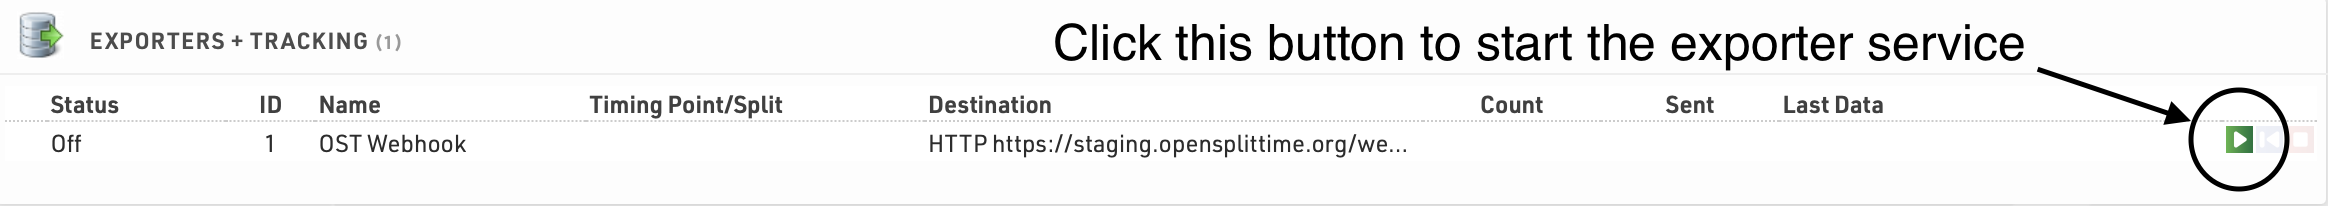
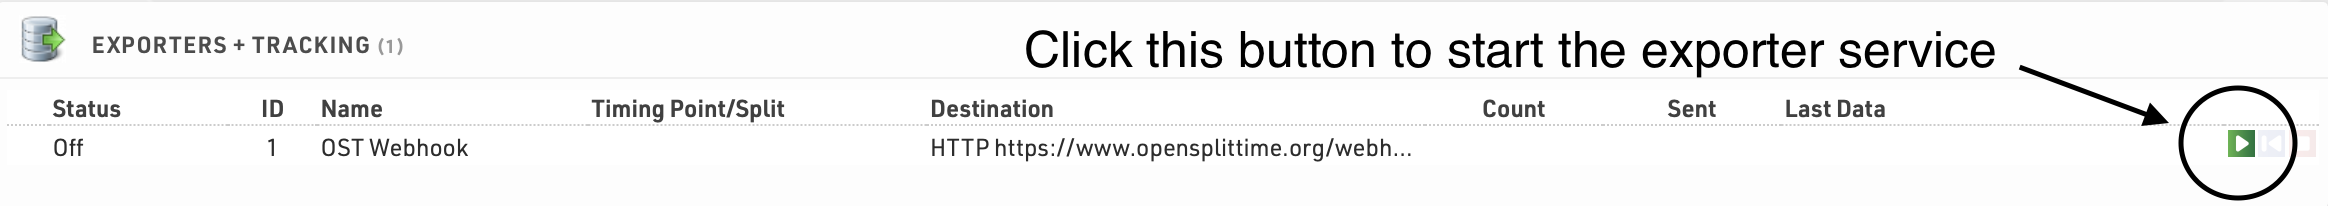
Added modifications and images to support

diff --git a/docs/raceresult-integration/create-exporter.md b/docs/raceresult-integration/create-exporter.md
@@ -10,9 +10,15 @@ nav_order: 3
 
 In OpenSplitTime, make sure you are logged in and go to your Event Group. Click **Admin** → **Construction** → **Status**.
 
-Make sure Live Entry is enabled — the **RaceResult RFID Integration** card will only appear when Live Entry is active. If it is not enabled, click **Enable Live Entry** on the same page.
+![OST instruction to Admin/Construction tab](/assets/images/docs/race_result/race_result_doc_5.png)
+
+![OST status icon](/assets/images/docs/race_result/race_result_doc_6.png)
+
+Make sure [Live Entry is enabled](../confirm-data-flow/) — the **RaceResult RFID Integration** card will only appear when Live Entry is active. If it is not enabled, click **Enable Live Entry** on the same page.
 
 In the **RaceResult RFID Integration** card, if a webhook token has not yet been generated, click **Set Token** to generate one. Once a token exists, the **Webhook URL** field will be displayed. You will need this URL in the next step.
+
+![OST get webhook token](/assets/images/docs/race_result/race_result_doc_8.png)
 
 ## 2. Create an exporter
 
@@ -23,7 +29,7 @@ In the left panel of RaceResult, go to **Timing** → **Settings** → **Exporte
 - **Filter**: Leave this field blank
 - **Destination**: `HTTP(S) Post`, then copy the **Webhook URL** from the OpenSplitTime **Admin** → **Construction** → **Status** page into the next field. Do not use the example below — always copy your actual URL from OpenSplitTime, as it contains a unique token and Event Group identifier.
 
-  Example: `https://opensplittime.org/webhooks/raceresult?token=abc123def456&event_group_name=my-event-group`
+  Example: `https://www.opensplittime.org/webhooks/raceresult?token=abc123def456&event_group_name=my-event-group`
 
 - **Export Data**: Select `Raw Data Record JSON` from the dropdown
 - **LineEnd**: `CRLF`

diff --git a/docs/raceresult-integration/confirm-data-flow.md b/docs/raceresult-integration/confirm-data-flow.md
@@ -12,4 +12,12 @@ Verify that your decoders are actively sending data to the RaceResult platform. 
 
 ## Confirm OpenSplitTime is receiving data
 
-In OpenSplitTime, make sure Live Entry is enabled for your Event Group (on the **Status** page, click **Enable Live Entry** if it is not already enabled). Then go to **Live Times** → **List** and watch for raw times to appear as they are received from RaceResult.
+In OpenSplitTime, make sure Live Entry is enabled for your Event Group. To enable **Live Entry**, go to **Admin** → **Construction**. Click the **Status** icon in the new page and enable **Live Entry** feature. 
+
+![OST instruction to Admin/Construction tab](/assets/images/docs/race_result/race_result_doc_5.png)
+
+![OST status icon](/assets/images/docs/race_result/race_result_doc_6.png)
+
+![OST ensure live entry on](/assets/images/docs/race_result/race_result_doc_7.png)
+
+Then go back to your event, head to **Live Times** → **List** and watch for raw times to appear as they are received from RaceResult.
